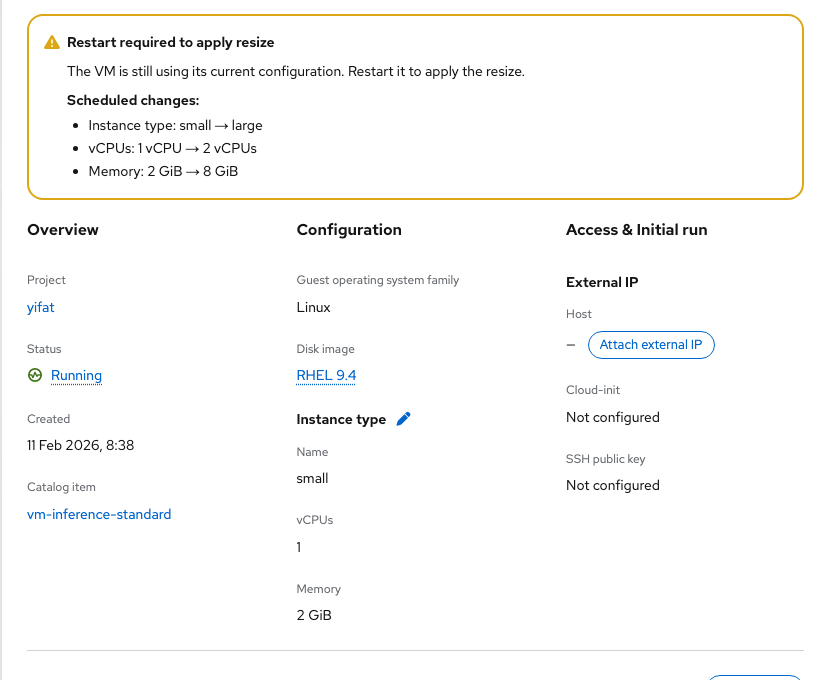
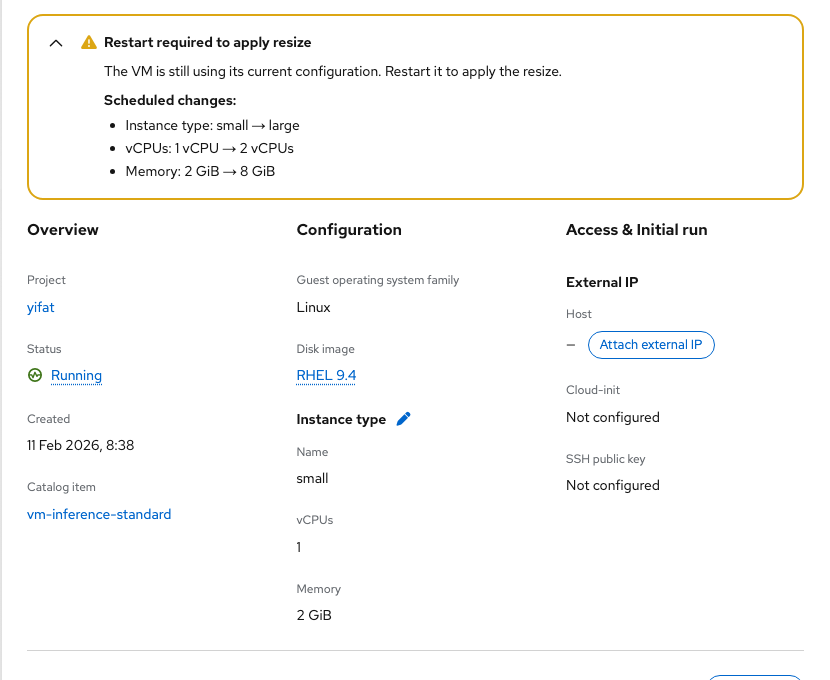
OSAC-4281: make restart warning expandable
Assisted-by: Cursor <cursoragent@cursor.com>

Changed region(s): [[0.0602, 0.0309, 0.6627, 0.2779]]

diff --git a/apps/app-frontend/public/vmaas-ux-prototype.html b/apps/app-frontend/public/vmaas-ux-prototype.html
@@ -8913,6 +8913,7 @@
         title: 'Restart required',
         message: message || existing?.message || 'Changes apply after the virtual machine is restarted.',
         changes,
+        expanded: true,
       };
       if (!Array.isArray(vm.conditions)) vm.conditions = [];
       if (!vm.conditions.some(c => /RestartRequired/i.test(c))) {
@@ -8941,6 +8942,7 @@
     function vmRestartRequiredAlertHtml(vm) {
       const rr = vm?.restartRequired;
       if (!rr || !Array.isArray(rr.changes) || !rr.changes.length) return '';
+      const expanded = rr.expanded !== false;
       const msg = String(rr.message || 'Changes apply after the virtual machine is restarted.').replace(/</g, '&lt;');
       const changes = rr.changes.map(c => {
         const section = String(c.section || 'Details').replace(/</g, '&lt;');
@@ -8953,10 +8955,20 @@
       }).join('');
       return `
         <div class="vm-restart-required" id="vm-restart-required">
-          <div class="pf-v6-c-alert pf-m-inline pf-m-warning" role="status">
+          <div class="pf-v6-c-alert pf-m-inline pf-m-warning pf-m-expandable ${expanded ? 'pf-m-expanded' : ''}" role="status">
+            <div class="pf-v6-c-alert__toggle">
+              <button class="pf-v6-c-button pf-m-plain" type="button" data-vm-restart-alert-toggle
+                aria-label="Restart required details" aria-expanded="${expanded}" aria-controls="vm-restart-required-body">
+                <span class="pf-v6-c-button__icon"><span class="pf-v6-c-alert__toggle-icon">
+                  <svg class="pf-v6-svg" fill="currentColor" viewBox="0 0 20 20" width="1em" height="1em" aria-hidden="true">
+                    <path d="M18.71 5.29a.996.996 0 0 0-1.41 0l-7.29 7.29-7.3-7.29a.987.987 0 0 0-1.41-.02.987.987 0 0 0-.02 1.41l.02.02 7.65 7.65c.29.29.68.44 1.06.44s.77-.15 1.06-.44l7.65-7.65a.996.996 0 0 0 0-1.41Z" />
+                  </svg>
+                </span></span>
+              </button>
+            </div>
             <div class="pf-v6-c-alert__icon"><i class="fa-solid fa-triangle-exclamation" aria-hidden="true"></i></div>
             <h4 class="pf-v6-c-alert__title">${rr.changes.some(c => c.label === 'Instance type') ? 'Restart required to apply resize' : 'Restart required'}</h4>
-            <div class="pf-v6-c-alert__description" id="vm-restart-required-body">
+            <div class="pf-v6-c-alert__description" id="vm-restart-required-body" ${expanded ? '' : 'hidden'}>
               <div class="vm-restart-required__body">
                 <p>${msg}</p>
                 <p class="vm-restart-required__changes-label">Scheduled changes:</p>
@@ -17020,6 +17032,16 @@
           hidePfTooltip();
           applyVmPowerAction(b.dataset.vmAction, v.name);
         });
+      });
+      root.querySelector('[data-vm-restart-alert-toggle]')?.addEventListener('click', e => {
+        const toggle = e.currentTarget;
+        const alert = toggle.closest('.pf-v6-c-alert');
+        const description = alert?.querySelector('#vm-restart-required-body');
+        const expanded = toggle.getAttribute('aria-expanded') !== 'true';
+        toggle.setAttribute('aria-expanded', String(expanded));
+        alert?.classList.toggle('pf-m-expanded', expanded);
+        if (description) description.hidden = !expanded;
+        if (v.restartRequired) v.restartRequired.expanded = expanded;
       });
       root.querySelector('#vm-detail-actions-btn')?.addEventListener('click', e => {
           e.stopPropagation();

diff --git a/docs/osac-4281-vm-resize-handoff.md b/docs/osac-4281-vm-resize-handoff.md
@@ -19,7 +19,7 @@ The modal has a required typeahead Instance type field and Save/Cancel actions. 
 
 ## After Save
 
-A success toast confirms the saved request. For a Running or Paused VM that requires restart, show a persistent warning at the top of VM Overview: **Restart required to apply resize**. Keep the VM's **active** instance type, vCPUs, and memory as the main configuration values, including the CPU and memory totals in Utilization. Under **Scheduled changes**, show current → requested values for instance type, vCPUs, and memory without repeating “Configuration” before each field. Keep the details visible; there is no collapsed version. A Restart action in the warning is optional and depends on the supported VM action.
+A success toast confirms the saved request. For a Running or Paused VM that requires restart, show a persistent warning at the top of VM Overview: **Restart required to apply resize**. Keep the VM's **active** instance type, vCPUs, and memory as the main configuration values, including the CPU and memory totals in Utilization. Under **Scheduled changes**, show current → requested values for instance type, vCPUs, and memory without repeating “Configuration” before each field. Use the PF6 expandable alert, open by default. Collapsing hides the description and change list while the warning title stays visible. Expand it again when scheduled changes are updated. A Restart action in the warning is optional and depends on the supported VM action.
 
 On the VM list, retain the normal power status (for example, Running). Add a separate, neutral, outlined PatternFly 6 **Resize scheduled** label beside the VM name. Its tooltip says, “Restart the VM to apply the new CPU and memory.” Clear the warning and label only when the new configuration is confirmed active. A Stopped VM's new size applies on its next start.
 
@@ -35,9 +35,13 @@ The API must expose or allow derivation of both active and requested configurati
 
 ![VM table row with Resize scheduled badge](screenshots/vm-resize/resize-scheduled-table.png)
 
-**Restart required warning and active configuration on VM Overview.**
+**Restart required warning, expanded by default, and active configuration on VM Overview.**
 
 ![Resize warning with current and after-restart values](screenshots/vm-resize/restart-required-overview.png)
+
+**Collapsed warning.** The title remains visible, and the toggle reopens the scheduled changes.
+
+![Collapsed resize warning with persistent title](screenshots/vm-resize/restart-required-collapsed.png)
 
 **Utilization before restart shows the active 1 vCPU and 2 GiB.**
 
